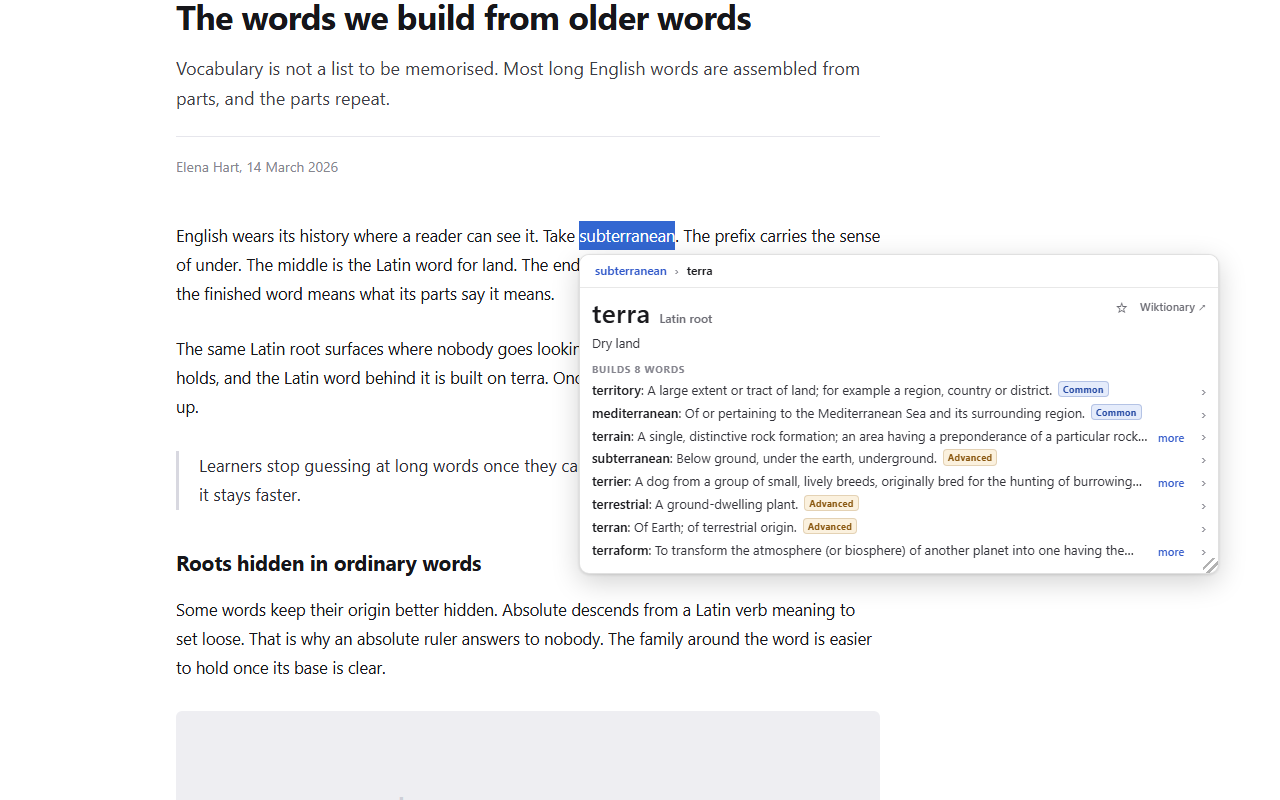
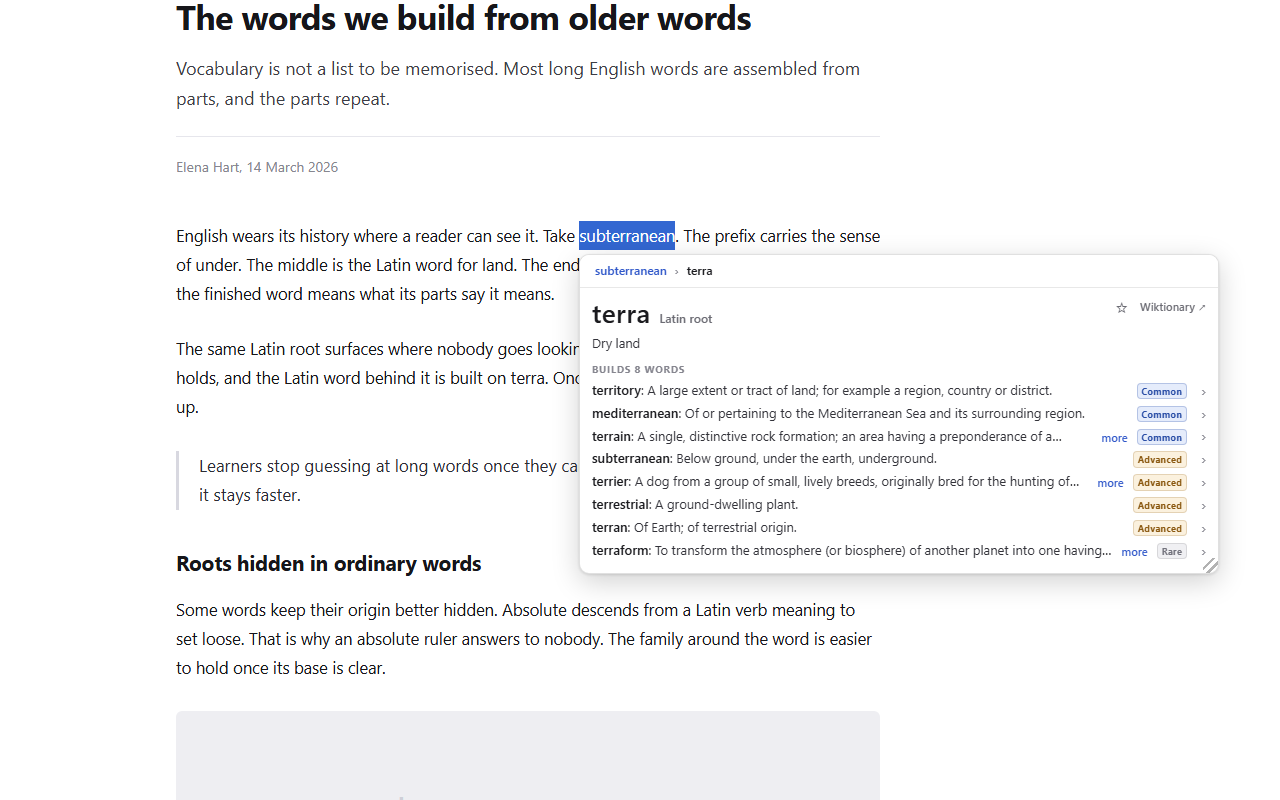
Ranked-list rows keep their tier chip at every width
The chip becomes a flex sibling of the clamped text instead of its
tail, so family and used-in rows show word, clamped definition, and
chip even at the 280px minimum (was 4 of 8 rows). Saved root rows
title themselves by form with the key kept as identity. Store
screenshots regenerated with the fixed rows; pipeline README
documents the collateral tools.

Suites: 151 Node, 197 + 163 harness, all green.

Changed region(s): [[0.8125, 0.4688, 0.9375, 0.7188], [0.625, 0.5938, 0.6875, 0.6875], [0.7188, 0.5625, 0.7812, 0.5938]]

diff --git a/test-page/index.html b/test-page/index.html
@@ -1557,6 +1557,49 @@
       api.queryAll(".fam-row")[0].querySelector(".tier-chip").textContent === "Everyday",
       api.queryAll(".fam-row")[0].textContent.slice(0, 60));
 
+    // --- the chip survives the row's one-line clamp at ANY width -------------
+    // The definition is clamped to one line; the chip is NOT part of that
+    // clamp. Inside it, a long definition pushed the chip onto the hidden
+    // second line and the row silently lost it. Narrow the panel to the
+    // minimum, where every definition overflows, and every row must still show
+    // its chip.
+    function chipsShowing() {
+      return api.queryAll(".fam-row").filter(function (r) {
+        var chip = r.querySelector(".tier-chip");
+        if (!chip) return false;
+        var box = chip.getBoundingClientRect();
+        var rowBox = r.getBoundingClientRect();
+        // Painted, and on the row's own line rather than a clipped one below.
+        return box.width > 0 && box.height > 0 &&
+          box.bottom <= rowBox.bottom + 1 && box.top >= rowBox.top - 1;
+      }).length;
+    }
+    var famRowCount = api.queryAll(".fam-row").length;
+    check("test setup: the list is showing its eight preview rows",
+      famRowCount === 8, "rows=" + famRowCount);
+    check("every row shows its chip at the default width",
+      chipsShowing() === 8, "chips=" + chipsShowing() + "/8");
+    api.resizePanel(280, 400);
+    await until(function () { return api.panelSize().width <= 281; });
+    check("every row still shows its chip at the 280px minimum",
+      chipsShowing() === 8, "chips=" + chipsShowing() + "/8 at " +
+      Math.round(api.panelSize().width) + "px");
+    check("the definitions really are clamped at that width, so this is not vacuous",
+      api.queryAll(".fam-row").some(function (r) {
+        var body = r.querySelector(".clamp");
+        return body && body.scrollHeight > body.clientHeight + 1;
+      }), "clamped=" + api.queryAll(".fam-row").filter(function (r) {
+        var body = r.querySelector(".clamp");
+        return body && body.scrollHeight > body.clientHeight + 1;
+      }).length);
+    check("the chip sits outside the clamped text, as its own row child",
+      api.queryAll(".fam-row").every(function (r) {
+        var chip = r.querySelector(".tier-chip");
+        return !!chip && chip.parentNode === r;
+      }));
+    api.resetPanelSize();
+    await until(function () { return !api.isUserSized(); });
+
     // --- family pagination ------------------------------------------------
     var famCallsBefore = fake.__familyCalls;
     var more = api.query(".fam-more");

diff --git a/test-page/embed.html b/test-page/embed.html
@@ -2051,10 +2051,19 @@
       rows[0].querySelector(".saved-secondary").textContent ===
         "Below the ground; underground.",
       rows[0].textContent);
-    check("a root row's secondary line is its gloss",
-      rows[1].querySelector(".saved-primary").textContent === "la:terra" &&
+    // A root row TITLES itself by its form. The key is what files it, not what
+    // it is called: a reader who saved terra should see terra.
+    check("a root row is titled by its form, with its gloss beneath",
+      rows[1].querySelector(".saved-primary").textContent === "terra" &&
       rows[1].querySelector(".saved-secondary").textContent === "earth, land",
       rows[1].textContent);
+    check("the key is still the row's identity, so the row can be acted on",
+      rows[1].getAttribute("data-key") === "la:terra" &&
+      rows[1].getAttribute("data-kind") === "root",
+      rows[1].getAttribute("data-key"));
+    check("a row with no entry left falls back to the key it was filed under",
+      rows[2].querySelector(".saved-primary").textContent === "notaword",
+      rows[2].querySelector(".saved-primary").textContent);
     check("a row whose entry has left the dictionary says so instead of vanishing",
       rows[2].classList.contains("missing") &&
       !!rows[2].querySelector(".saved-missing"),
@@ -2233,6 +2242,22 @@
           api.isVisible();
       },
       function () { return rowKey + " / " + input.value; });
+    // The root row searches the KEY it was filed under, not the form it shows:
+    // the shell routes "la:terra" to the root card and would read "terra" as
+    // an ordinary word lookup with no answer.
+    sidebar.showView("saved");
+    await until(function () {
+      return document.querySelectorAll("#okp-saved-list .saved-row").length > 0;
+    });
+    var rootRow = document.querySelector(
+      '#okp-saved-list .saved-row[data-kind="root"]');
+    rootRow.click();
+    await checkSoon("clicking a root row opens its card, keyed not titled",
+      function () {
+        return sidebar.activeView() === "search" && input.value === "la:terra" &&
+          !!api.query(".card.root") && surfaceText() === "terra";
+      },
+      function () { return input.value + " / " + surfaceText(); });
 
     // --- the settings view -------------------------------------------------------
     sidebar.showView("settings");

diff --git a/extension/content/content.js b/extension/content/content.js
@@ -487,6 +487,11 @@
     "}",
     // Registry badges sit side by side when more than one applies.
     ".tier-chip + .tier-chip { margin-left: 4px; }",
+    // In a list row the chip is a flex sibling of the clamped text rather than
+    // inline after it: it must never shrink, and the row's own gap already
+    // separates it, so the inline margin would double up.
+    ".entry-row > .tier-chip { flex: 0 0 auto; margin-left: 0; }",
+    ".entry-row > .tier-chip + .tier-chip { margin-left: 0; }",
     ".tier-chip--everyday { color: var(--tier-everyday-fg);",
     "  background: var(--tier-everyday-bg); border-color: var(--tier-everyday-edge); }",
     ".tier-chip--common { color: var(--tier-common-fg);",
@@ -2123,8 +2128,19 @@
     card.appendChild(row);
   }
 
-  // One family row: the word, its first definition, and its tier chip. The
-  // whole row navigates into that word's card.
+  /**
+   * One list row: the word, its first definition, and its tier chip. The whole
+   * row navigates into that word's card. Shared by family lists and used-in
+   * lists, so both get this shape and any fix to it.
+   *
+   * The chip is a SIBLING of the clamped text, never inside it. Inside, it was
+   * just more content for the one-line clamp to run past: a row with a long
+   * definition pushed its chip onto the hidden second line and simply lost it
+   * (measured 2026-08-25: 2 of terra's 8 rows showed no chip at a 420px
+   * panel). As a flex sibling it reserves its own width and the definition
+   * clamps around it, so every row shows word, clamped def and chip at every
+   * panel width.
+   */
   function buildFamilyRow(entry) {
     if (!entry || typeof entry !== "object") return null;
     var word = nonEmptyString(entry.word);
@@ -2135,8 +2151,8 @@
     text.appendChild(el("span", "fam-word", word));
     var def = nonEmptyString(entry.def);
     if (def) text.appendChild(el("span", "fam-def", ": " + capitalizeSense(def)));
-    appendBadges(text, entry);
     row.appendChild(clampWrap(text, 1));
+    appendBadges(row, entry);
 
     makeNavRow(row, word);
     return row;

diff --git a/extension/sidepanel/saved-view.js b/extension/sidepanel/saved-view.js
@@ -472,6 +472,20 @@
    * The list — the view's own scroll region.
    * ------------------------------------------------------------------ */
 
+  /**
+   * What a saved row CALLS itself. A word is its own title; a root is its FORM
+   * (terra), never the "<lang>:<form>" storage key that files it. The key is
+   * still the row's identity: data-key carries it, and clicking the row
+   * searches it. It is the title only as a fallback, for a row whose entry has
+   * left the dictionary and so has no form to show.
+   */
+  function primaryText(item) {
+    if (item.kind === "root" && typeof item.form === "string" && item.form !== "") {
+      return item.form;
+    }
+    return item.key;
+  }
+
   function buildItemRow(item) {
     var row = el("div", "saved-row");
     row.setAttribute("data-id", item.id);
@@ -497,7 +511,7 @@
     row.appendChild(hit);
 
     var text = el("div", "saved-text");
-    text.appendChild(el("span", "saved-primary", item.key));
+    text.appendChild(el("span", "saved-primary", primaryText(item)));
     if (item.missing === true) {
       text.appendChild(el("span", "saved-missing", "no longer in the dictionary"));
     } else {

diff --git a/pipeline/README.md b/pipeline/README.md
@@ -655,6 +655,13 @@ longer reproduces what it published.
 
 ## Other tooling in this directory
 
-`make_icons.py`, `make_promo.py`, `make_screenshots.py` and `make_zip.ps1`
-carry over from Okpyeon unchanged in mechanism. They are not part of the data
-build and do not read `cache/`.
+`make_icons.py` renders the epsilon seal icon set from the geometry in its
+tuning table. `make_promo.py` builds the store promo tiles from the same
+geometry, so the tile is the icon enlarged. `make_screenshots.py` drives the
+staging pages in `screenshots/` (shots-page.html for the selection popup,
+shots-panel.html for the sidebar) through a headless Chrome and writes the
+store screenshot set to the repo-root `screenshots/` directory; every scene
+asserts its SPEC wording before shooting. `make_zip.ps1` packs
+etymikon-<version>.zip. The mechanisms carry over from Okpyeon; the content
+is Etymikon's. None of these are part of the data build and none read
+`cache/`.
